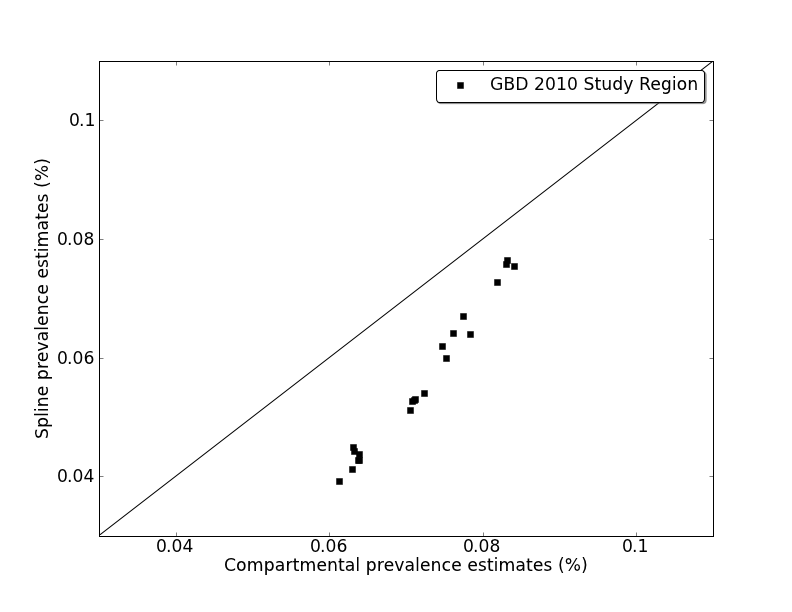
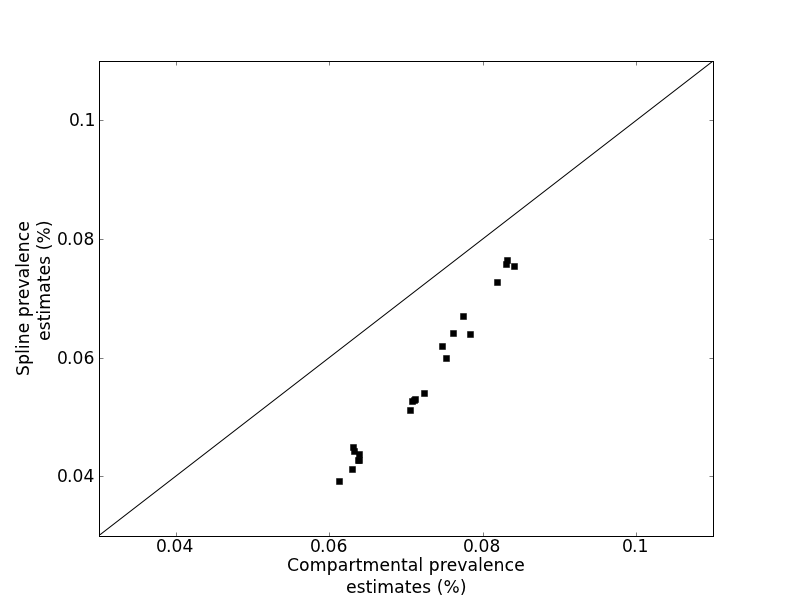
enh: ckd comparison changes

Changed region(s): [[0.2727, 0.9003, 0.7576, 0.9935], [0.5455, 0.1242, 0.9091, 0.1863], [0.0, 0.2484, 0.0606, 0.7141]]

diff --git a/book/graphics_ersd.py b/book/graphics_ersd.py
@@ -156,9 +156,8 @@ pl.savefig('book/graphics/ckd-m_with_smoothing.png')
 # figure ckd-asp_scatter
 scatter = pandas.read_csv('/home/j/Project/dismod/gbd/data/applications-data_esrd_regions.csv')
 
-pl.figure(**book_graphics.three_quarter_page_params)
+pl.figure(**book_graphics.full_page_params)
 
-pl.subplot(1,2,1)
 pl.plot(pl.array(scatter['compartmental']), pl.array(scatter['spline']), 'ks', label = 'GBD 2010 Study Region')
 pl.plot([-1,1], [-1,1], 'k-')
 pl.xlabel('Compartmental prevalence \nestimates (%)')
@@ -167,20 +166,7 @@ pl.yticks([0, .0004, .0006, .0008, .001], [0, 0.04, 0.06, 0.08, 0.10])
 pl.xticks([0, .0004, .0006, .0008, .001], [0, 0.04, 0.06, 0.08, 0.10])
 pl.axis([.0003,.0011,.0003,.0011])
 
-pl.subplot(1,2,2)
-sum = pl.array(scatter['compartmental']) + pl.array(scatter['spline'])
-diff = pl.array(scatter['spline']) - pl.array(scatter['compartmental'])
-pl.plot(sum, diff, 'ks', label = 'GBD 2010 Study Region')
-#pl.plot([-1,1], [-1,1], 'k-')
-pl.xlabel('Spline + compartmental \nprevalence estimates (%)')
-pl.ylabel('Spline - compartmental \nprevalence estimates (%)')
-pl.yticks([-.00005, -.0001, -.00015, -.0002, -.00025], [-.005, -.01, -.015, -.02, -.025])
-pl.xticks([.001, .0012, .0014, .0016], [.1, .12, 0.14, 0.16])
-pl.axis([.0009,.0017,-.00027,-.00004])
-pl.subplots_adjust(top=.99, bottom=.27, wspace=.35)
-pl.legend(loc='upper right', fancybox=True, shadow=True, numpoints=1, bbox_to_anchor=(.5,-.2))
-
-pl.savefig('book/graphics/ckd-asp_compare.pdf')
-pl.savefig('book/graphics/ckd-asp_compare.png')
+pl.savefig('book/graphics/ckd-asp_scatter.pdf')
+pl.savefig('book/graphics/ckd-asp_scatter.png')
 
 pl.show()

diff --git a/book/applications-fits_incon_v_con.tex b/book/applications-fits_incon_v_con.tex
@@ -121,14 +121,14 @@ requires all prevalent cases to have a corresponding incident event.
 
     \begin{figure}[h]
         \begin{center}
-            \includegraphics[width=\textwidth]{ckd-asp_compare.pdf}
+            \includegraphics[width=\textwidth]{ckd-asp_scatter.pdf}
             \caption[Comparison of the regional age-standardized
               prevalence estimates using compartmental and spline
               models for end-stage renal disease treated with dialysis.]
               {Comparison of the regional age-standardized
               prevalence estimates using compartmental and spline
               models for males with ESRD treated with dialysis in
-              2005 using a (a) TKD:????? and (b) a sum-difference plot.}
+              2005.}
             \label{fig:app-CKD asp}
         \end{center}
     \end{figure}
